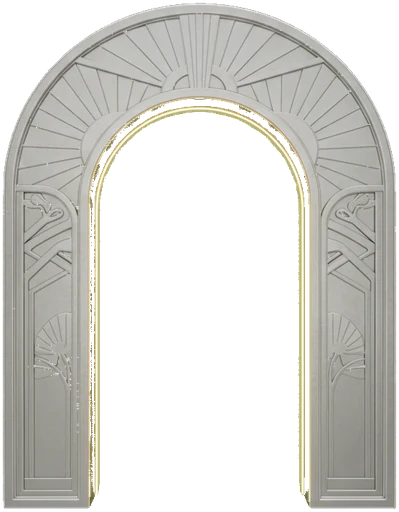
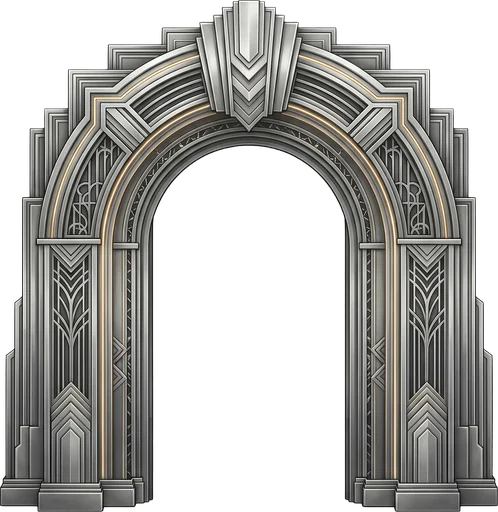
Tower: owner's soldier frames, guard bust, gate and ladder (chroma-keyed), six-room floor from one repeated Gemini panel
Claude-Session: https://claude.ai/code/session_01HyesyxrFKcGxt1hc9YHT4L

diff --git a/docs/tower.html b/docs/tower.html
@@ -19,27 +19,26 @@ body{position:fixed;inset:0;background:#0d0c0b;color:#f3f2e9;font:15px Heebo,Ari
 #frame{position:absolute;inset:14px;border:6px solid #9da3aa;border-radius:26px;box-shadow:inset 0 0 0 3px #3b3f45,inset 0 0 40px #000a,0 0 0 3px #2a2c30;pointer-events:none;z-index:3}
 #frame::before{content:"";position:absolute;inset:8px;border:2px solid #c9a24a66;border-radius:18px}
 /* the floor: 6 rooms across the full width */
-#floor{position:absolute;left:0;right:0;top:250px;height:560px;transition:transform .9s cubic-bezier(.5,0,.3,1),opacity .9s}
+#floor{position:absolute;left:0;right:0;top:215px;height:640px;transition:transform .9s cubic-bezier(.5,0,.3,1),opacity .9s}
 #floor.down{transform:translateY(900px);opacity:0}#floor.up{transform:translateY(-900px);opacity:0;transition:none}
-.room{position:absolute;top:0;height:560px;border-radius:999px 999px 18px 18px;
-  background:linear-gradient(#24262b,#141518 70%);border:5px solid #a9afb6;box-shadow:inset 0 0 0 3px #2d3035,inset 0 30px 60px #000c,0 10px 24px #000a}
-.room::before{content:"";position:absolute;left:12%;right:12%;bottom:0;height:20px;border-radius:50%;background:#0008;filter:blur(6px)}
-.room .no{position:absolute;top:-30px;left:50%;transform:translateX(-50%);width:66px;height:66px;border-radius:50%;display:grid;place-items:center;
-  background:radial-gradient(circle at 40% 35%,#f2f4f6,#8d949c 70%);border:3px solid #2d3035;color:#1b1d21;font:900 38px Inter;box-shadow:0 4px 10px #000a;z-index:2}
-.room img{position:absolute;left:50%;bottom:18px;transform:translateX(-50%);max-width:88%;filter:drop-shadow(0 10px 10px #000c)}
-.room .vault{width:82%;max-width:240px;bottom:40px}
+.room{position:absolute;top:0;height:640px;background:url(img/tower/room_tile.webp) 0 0/100% 100%}
+.room .no{position:absolute;top:10px;left:50%;transform:translateX(-50%);width:62px;height:62px;border-radius:50%;display:grid;place-items:center;
+  background:radial-gradient(circle at 40% 35%,#f2f4f6,#8d949c 70%);border:3px solid #2d3035;color:#1b1d21;font:900 36px Inter;box-shadow:0 4px 10px #000a;z-index:2}
+.room img{position:absolute;left:50%;bottom:34px;transform:translateX(-50%);filter:drop-shadow(0 10px 10px #000c)}
+.room .vault{width:68%;max-width:230px;bottom:46px}
 .room .mult{position:absolute;left:50%;bottom:150px;transform:translateX(-50%);font:900 46px Inter;color:#ffe08a;text-shadow:0 3px 0 #5c3d00,0 0 18px #ffb300aa;z-index:2;direction:ltr}
-.room .guard{height:470px;max-width:none}
-.room .gate{height:440px;bottom:6px;max-width:none}.room .lad{height:500px;max-width:none}
-.room .cap{position:absolute;left:0;right:0;bottom:-48px;text-align:center;font:800 26px Heebo;color:#d7dbe0;text-shadow:0 2px 4px #000}
+.room .guard{width:74%;max-width:250px}
+.room .gate{height:400px;bottom:30px}.room .lad{height:470px;bottom:30px}
+.room .cap{position:absolute;left:0;right:0;bottom:-44px;text-align:center;font:800 26px Heebo;color:#e3e6ea;text-shadow:0 2px 4px #000}
 .room.hit{animation:hit .5s ease-out 2}.room.took .vault,.room.took .mult{opacity:.25;transition:opacity .5s}
-.room.cur{border-color:#ffd970;box-shadow:inset 0 0 0 3px #6b4a00,inset 0 30px 60px #000c,0 0 34px #ffcc4dcc}
+.room.cur{box-shadow:inset 0 0 0 5px #ffd970,0 0 40px #ffcc4dcc;z-index:1}
 @keyframes hit{30%{transform:translateX(-14px)}60%{transform:translateX(12px)}}
 /* the player */
-#me{position:absolute;top:610px;width:150px;height:150px;margin-left:-75px;z-index:4;display:grid;place-items:center;font-size:120px;line-height:1;
-  filter:drop-shadow(0 10px 8px #000c);transition:left .7s cubic-bezier(.4,.1,.3,1),top .7s}
-#me.hop{animation:hop .7s ease-out}@keyframes hop{45%{transform:translateY(-120px)}}
-#me.caught{animation:caught 1s ease-out forwards}@keyframes caught{30%{transform:rotate(-20deg) scale(1.1)}100%{transform:rotate(80deg) translateY(80px) scale(.6);opacity:0}}
+#me{position:absolute;top:555px;width:180px;height:300px;margin-left:-90px;z-index:4;filter:drop-shadow(0 0 2px #fff8) drop-shadow(0 12px 8px #000c);transition:left .8s linear,top .8s}
+#me img{width:100%;height:100%;object-fit:contain;object-position:50% 100%}
+#me.left img{transform:scaleX(-1)}
+#me.caught{animation:caught 1s ease-out forwards}@keyframes caught{30%{transform:rotate(-12deg)}100%{transform:rotate(-70deg) translateY(60px) scale(.8);opacity:0}}
+#me.glow{filter:drop-shadow(0 0 18px #ffd970) drop-shadow(0 0 40px #ffb300cc)}
 /* top line */
 #top{left:40px;right:40px;top:34px;display:flex;gap:16px;align-items:center;z-index:5}
 .pill{background:rgba(14,15,18,.86);border:2px solid #6b7078;border-radius:99px;padding:10px 26px;font:800 30px Heebo;color:#f3f2e9;text-decoration:none;white-space:nowrap}
@@ -99,7 +98,7 @@ body{position:fixed;inset:0;background:#0d0c0b;color:#f3f2e9;font:15px Heebo,Ari
 <div id="stage">
   <div id="wall"></div>
   <div id="floor"></div>
-  <div id="me">🧗</div>
+  <div id="me"><img id="meI" src="img/tower/sol_base_side_standing.webp" alt="הלוחם"></div>
   <div id="frame"></div>
   <div class="abs" id="top"><a class="pill" href="./">→ ללובי</a><span class="pill">הארנק שלי <b id="bal">…</b></span><div id="title">🏰 מגדל הכסף</div></div>
   <div class="abs" id="lvl"></div>
@@ -138,13 +137,13 @@ function fit() {
 addEventListener("resize", fit); addEventListener("orientationchange", () => setTimeout(fit, 300)); try { new ResizeObserver(fit).observe(document.documentElement); } catch (e) {}
 
 // room geometry across the full width
-const roomBox = (i) => { const pad = 60, gap = Math.max(18, (W - 2 * pad) * 0.022), w = (W - 2 * pad - 5 * gap) / 6; return { x: W - pad - w - i * (w + gap), w }; };   // room 1 on the right (Hebrew reading)
+const roomBox = (i) => { const pad = 40, gap = 0, w = (W - 2 * pad) / 6; return { x: W - pad - w - i * (w + gap), w }; };   // room 1 on the right (Hebrew reading)
 function place() {
   document.querySelectorAll(".room").forEach((r, i) => { const b = roomBox(i); r.style.left = b.x + "px"; r.style.width = b.w + "px"; });
   const me = $("me"); me.style.transition = "none"; me.style.left = meX() + "px"; void me.offsetWidth; me.style.transition = "";
 }
 let meRoom = 0;   // 0 = standing at the start of the floor (right side), 1..6 = in a room
-const meX = () => meRoom ? roomBox(meRoom - 1).x + roomBox(meRoom - 1).w / 2 : W - 80;
+const meX = () => meRoom ? roomBox(meRoom - 1).x + roomBox(meRoom - 1).w / 2 : W - 115;
 
 // draw one row of the tower (floors 1..5, row 6 = the corridor to the bonus)
 function drawRow(row, cells, taken) {
@@ -191,11 +190,19 @@ async function rollDie(n) {
   const t0 = Date.now(); while (Date.now() - t0 < 1000) { face(1 + Math.floor(Math.random() * 6)); await sleep(90); }
   face(n); await sleep(500); S("chip"); await sleep(450); d.classList.remove("on");
 }
-async function walkTo(room) { const me = $("me"); meRoom = room; me.classList.remove("hop"); void me.offsetWidth; me.classList.add("hop"); me.style.left = meX() + "px"; await sleep(750); me.classList.remove("hop"); }
+const FR = (n) => "img/tower/sol_" + n + ".webp";
+["walk_01","walk_02","walk_03","walk_04","walk_05","climb_01","climb_02","celebrate","caught"].forEach((n) => { const i = new Image(); i.src = FR(n); });   // preload
+function pose(n) { $("meI").src = FR(n); }
+async function walkTo(room) {   // five walk frames while moving; the soldier faces right, so he is mirrored when walking left
+  const me = $("me"), from = meX(); meRoom = room; const to = meX(); if (Math.abs(to - from) < 2) return;
+  me.classList.toggle("left", to < from); me.style.left = to + "px"; S("tick");
+  for (let k = 0; k < 10; k++) { pose("walk_0" + (1 + (k % 5))); await sleep(80); }
+  pose("base_side_standing"); me.classList.remove("left");
+}
 async function climb(nextRow, cells) {   // the floor drops to the bottom of the screen and the next one comes down from above
-  S("riser"); $("floor").classList.add("down"); $("me").style.top = "-200px"; await sleep(900);
+  S("riser"); let ci = 0; const cl = setInterval(() => pose(ci++ % 2 ? "climb_02" : "climb_01"), 160); $("floor").classList.add("down"); $("me").style.top = "-320px"; await sleep(900); clearInterval(cl); pose("base_side_standing");
   const f = $("floor"); f.classList.remove("down"); f.classList.add("up"); drawRow(nextRow, cells); meRoom = 0; place(); void f.offsetWidth;
-  f.classList.remove("up"); f.style.transition = ""; $("me").style.transition = "none"; $("me").style.top = "610px"; void $("me").offsetWidth; $("me").style.transition = ""; await sleep(900);
+  f.classList.remove("up"); f.style.transition = ""; $("me").style.transition = "none"; $("me").style.top = "555px"; void $("me").offsetWidth; $("me").style.transition = ""; await sleep(900);
 }
 const curRow = (r) => (r.status === "choice" ? 3 : r.floor);
 
@@ -209,10 +216,10 @@ async function play(prev, data) {
     await walkTo(r.die);
     const room = document.querySelectorAll(".room")[r.die - 1]; room.classList.add("cur");
     if (r.cell === -1) {
-      room.classList.add("hit"); $("me").classList.add("caught"); S("drop");
+      room.classList.add("hit"); pose("caught"); $("me").classList.add("caught"); S("drop");
       if (r.row >= 4) { await sleep(900); }
       else { await say("שומר המגדל תפס אותך, מתחילים מחדש", true, 2600); }
-      $("me").classList.remove("caught");
+      $("me").classList.remove("caught"); pose("base_side_standing");
     } else if (r.row === 3 && r.die === 2 && data.status !== "lost" && k === data.rolls.length - 1 && data.status === "choice") {
       S("riser");
     } else if (r.cell > 0) { room.classList.add("took"); S("win"); await say(`כספת ×${r.cell}!`, false, 1100); }
@@ -225,6 +232,7 @@ async function play(prev, data) {
 }
 async function finish(data) {
   showBal(data.balance);
+  if (data.status !== "lost") { pose("celebrate"); $("me").classList.add("glow"); }
   if (data.status === "won") {
     S("win"); if (window.GC_BONUS) GC_BONUS(`🏰 ${BNAME[data.bonus]}!`, data.paid, `שלל ×${data.loot} + ×${PRIZE[data.bonus]}`); else await say(`🏰 ${BNAME[data.bonus]}! זכית ב-${fmt(data.paid)}`, false, 3000);
   } else if (data.status === "cashed") {
@@ -232,7 +240,7 @@ async function finish(data) {
   } else if (data.status === "lost") {
     await say("נתפסת על ידי שומר המגדל, חזור להתחלה. מקווה שזה מחושב בסיכויים שלך.", true, 3200);
   }
-  run = null; shownRow = null; meRoom = 0; drawIdle(); $("floor").classList.remove("down", "up");
+  $("me").classList.remove("glow"); pose("base_side_standing"); run = null; shownRow = null; meRoom = 0; drawIdle(); $("floor").classList.remove("down", "up");
 }
 async function send(fn, args) {
   busy = true; controls(); $("err").textContent = "";
